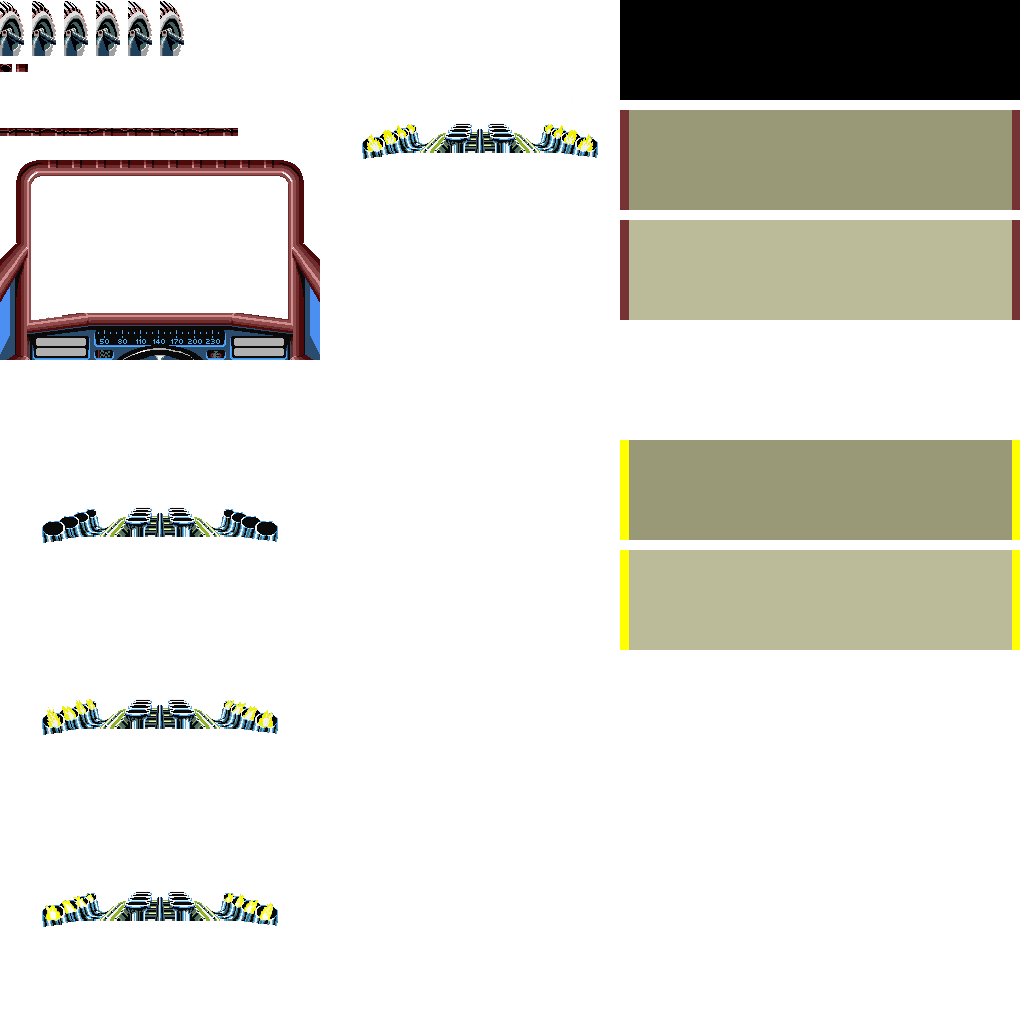
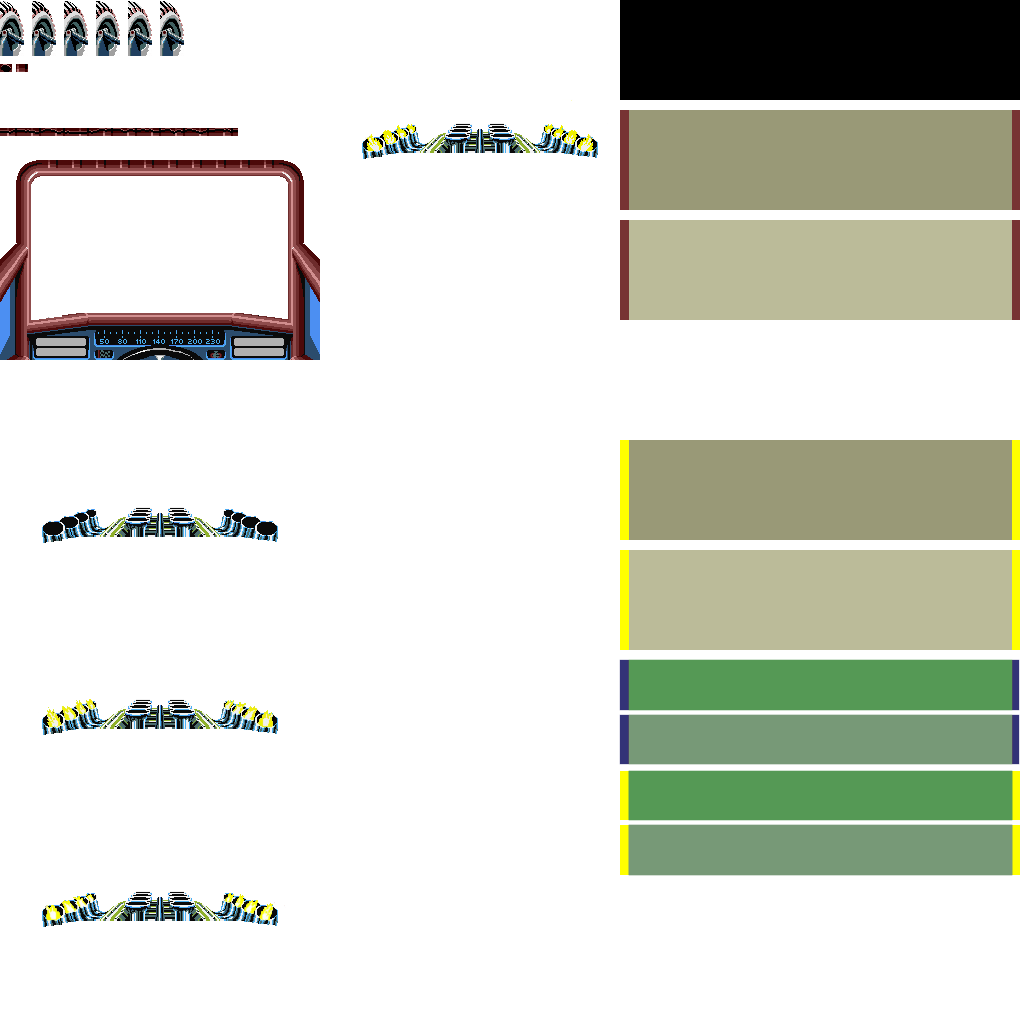
Added bitmap for blue road

Changed region(s): [[0.5938, 0.625, 1.0, 0.875]]

diff --git a/Atlas.cpp b/Atlas.cpp
@@ -12,28 +12,36 @@ void InitAtlasCoord() {
         0, 16, 0,  //eHole, eNotHole, eCracking
         41, 0, 279, 0, // eCockpit
         42, 42, 42, 362, // eEgines...
-        620, 620, 620, 620 ,620, 620    // eRoad...
+        620, 620, 620, 620 ,// eRoad...
+        620, 620, 620, 620 ,// eRoad...2
+        620, 620            // eRoad Black / White
     };
     const int y[eLAST] = { 
         0, 0, 0, 0, 0, 0,    //eWheel
         64, 64, 128,
         160, 160, 160, 313,
         507, 699, 891, 123,
-        441, 551, 111, 221, 1, 331
+        441, 551, 111, 221, 
+        771, 826, 661, 616, 
+        1, 331
     };
     const int w[eLAST]  = {
         24, 24, 24, 24, 24, 24,
         12, 12, 238,
         238, 41, 41, 320,
         235, 235 ,235, 235,
-        400, 400, 400, 400, 400, 400
+        400, 400, 400, 400,
+        400, 400, 400, 400,
+        400, 400
     };
     const int h[eLAST] = {
         56, 56, 56, 56, 56, 56,
         8, 8, 8,
         16, 153, 153, 47,
         35, 35 ,35, 35,
-        98, 98, 98, 98, 98, 98
+        98, 98, 98, 98,
+        48, 48, 48, 48,
+        98, 98
 
     };
 

diff --git a/Atlas.h b/Atlas.h
@@ -23,6 +23,10 @@ enum eAtlas {
     eRoadYellowLight,
     eRoadRedDark,
     eRoadRedLight,
+    eRoadYellowDark2,
+    eRoadYellowLight2,
+    eRoadRedDark2,
+    eRoadRedLight2,
     eRoadBlack,
     eRoadWhite,
     eLAST
